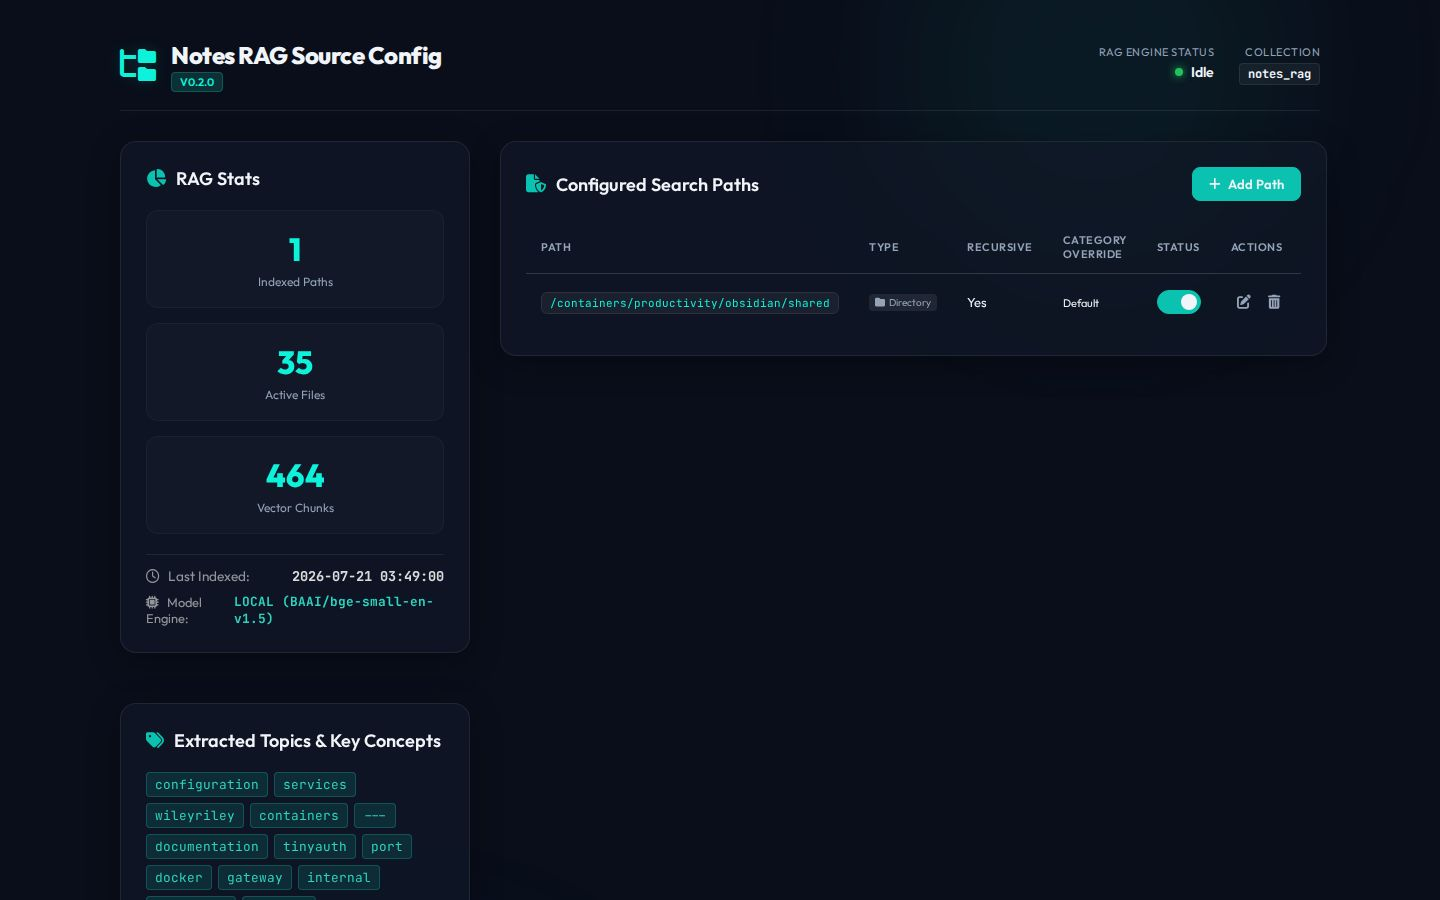
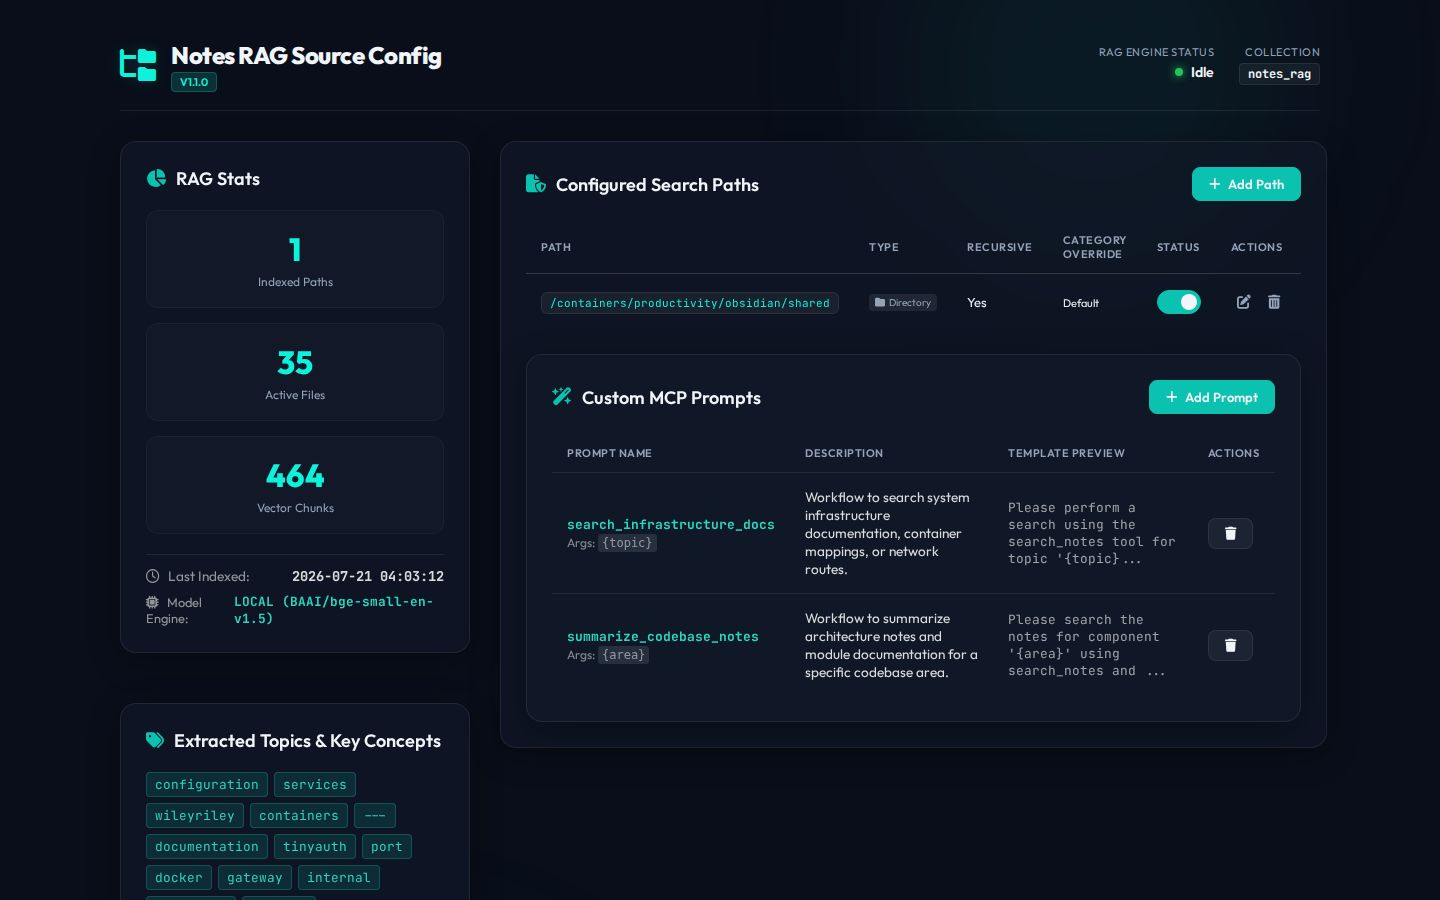
feat(prompts): add dynamic custom MCP prompt storage in SQLite with REST API and admin UI

diff --git a/www/app.js b/www/app.js
@@ -1,11 +1,14 @@
 document.addEventListener('DOMContentLoaded', () => {
     loadStats();
     loadPaths();
+    loadPrompts();
     
     // Poll stats and paths every 10s
     setInterval(loadStats, 10000);
     setInterval(loadPaths, 10000);
+    setInterval(loadPrompts, 10000);
 });
+
 
 // Cache global configs
 window.allPaths = [];
@@ -373,3 +376,108 @@ function escapeHtml(str) {
               .replace(/"/g, "&quot;")
               .replace(/'/g, "&#039;");
 }
+
+// ----------------------------------------------------
+// CUSTOM PROMPTS UI LOGIC
+// ----------------------------------------------------
+
+async function loadPrompts() {
+    try {
+        const response = await fetch('/admin/api/prompts');
+        if (!response.ok) throw new Error('Failed to fetch prompts');
+        const prompts = await response.json();
+        renderPrompts(prompts);
+    } catch (error) {
+        console.error('Error loading prompts:', error);
+    }
+}
+
+function renderPrompts(prompts) {
+    const tbody = document.getElementById('prompts-list-body');
+    if (!tbody) return;
+    if (prompts.length === 0) {
+        tbody.innerHTML = `
+            <tr>
+                <td colspan="4" class="empty-state">No custom MCP prompts configured. Click "Add Prompt" to create one.</td>
+            </tr>
+        `;
+        return;
+    }
+    
+    tbody.innerHTML = prompts.map(p => {
+        const argsStr = p.arguments && p.arguments.length > 0 
+            ? p.arguments.map(a => `<code style="font-size:0.75rem; background:rgba(255,255,255,0.1); padding:2px 4px; border-radius:3px;">{${escapeHtml(a.name)}}</code>`).join(' ') 
+            : '<span style="color:rgba(255,255,255,0.3)">None</span>';
+            
+        const previewText = p.template.length > 70 ? p.template.substring(0, 70) + '...' : p.template;
+
+        return `
+            <tr>
+                <td>
+                    <div style="font-weight:600; font-family:'JetBrains Mono', monospace; color:#2dd4bf;">${escapeHtml(p.name)}</div>
+                    <div style="font-size:0.75rem; margin-top:2px; color:rgba(255,255,255,0.5);">Args: ${argsStr}</div>
+                </td>
+                <td style="font-size:0.85rem; color:rgba(255,255,255,0.85);">${escapeHtml(p.description)}</td>
+                <td style="font-size:0.8rem; font-family:'JetBrains Mono', monospace; color:rgba(255,255,255,0.6);">${escapeHtml(previewText)}</td>
+                <td>
+                    <button class="btn btn-danger btn-sm" onclick="deletePrompt(${p.id})">
+                        <i class="fa-solid fa-trash"></i>
+                    </button>
+                </td>
+            </tr>
+        `;
+    }).join('');
+}
+
+function openAddPromptModal() {
+    document.getElementById('prompt-name').value = '';
+    document.getElementById('prompt-desc').value = '';
+    document.getElementById('prompt-template').value = '';
+    document.getElementById('prompt-modal').style.display = 'flex';
+}
+
+function closePromptModal() {
+    document.getElementById('prompt-modal').style.display = 'none';
+}
+
+async function savePrompt(event) {
+    event.preventDefault();
+    const name = document.getElementById('prompt-name').value.trim();
+    const description = document.getElementById('prompt-desc').value.trim();
+    const template = document.getElementById('prompt-template').value.trim();
+
+    // Extract placeholders like {topic} from template to auto-populate arguments
+    const matches = template.match(/\{([a-zA-Z0-9_\-]+)\}/g) || [];
+    const args = Array.from(new Set(matches.map(m => m.slice(1, -1)))).map(argName => ({
+        name: argName,
+        description: `Argument '${argName}' for prompt ${name}`,
+        required: true
+    }));
+
+    try {
+        const response = await fetch('/admin/api/prompts', {
+            method: 'POST',
+            headers: { 'Content-Type': 'application/json' },
+            body: JSON.stringify({ name, description, arguments: args, template })
+        });
+        const res = await response.json();
+        if (!response.ok) throw new Error(res.error || 'Failed to save prompt');
+
+        closePromptModal();
+        loadPrompts();
+    } catch (err) {
+        alert('Error saving prompt: ' + err.message);
+    }
+}
+
+async function deletePrompt(id) {
+    if (!confirm('Are you sure you want to delete this prompt?')) return;
+    try {
+        const response = await fetch(`/admin/api/prompts/${id}`, { method: 'DELETE' });
+        if (!response.ok) throw new Error('Failed to delete prompt');
+        loadPrompts();
+    } catch (err) {
+        alert('Error deleting prompt: ' + err.message);
+    }
+}
+

diff --git a/www/index.html b/www/index.html
@@ -114,6 +114,31 @@
                             </tbody>
                         </table>
                     </div>
+                <div class="glass-card prompts-card" style="margin-top: 24px;">
+                    <div class="card-header-btn">
+                        <h2><i class="fa-solid fa-wand-magic-sparkles"></i> Custom MCP Prompts</h2>
+                        <button class="btn btn-primary" onclick="openAddPromptModal()">
+                            <i class="fa-solid fa-plus"></i> Add Prompt
+                        </button>
+                    </div>
+                    
+                    <div class="table-container">
+                        <table>
+                            <thead>
+                                <tr>
+                                    <th>Prompt Name</th>
+                                    <th>Description</th>
+                                    <th>Template Preview</th>
+                                    <th>Actions</th>
+                                </tr>
+                            </thead>
+                            <tbody id="prompts-list-body">
+                                <tr>
+                                    <td colspan="4" class="empty-state">Loading custom MCP prompts...</td>
+                                </tr>
+                            </tbody>
+                        </table>
+                    </div>
                 </div>
             </section>
         </main>
@@ -122,6 +147,39 @@
             <p>WileyRiley Infrastructure &bull; Protected by TinyAuth Forward Auth &bull; 2026</p>
         </footer>
     </div>
+
+    <!-- Add Custom Prompt Modal -->
+    <div class="modal-backdrop" id="prompt-modal" style="display: none;">
+        <div class="glass-card modal-card" style="max-width: 600px;">
+            <div class="modal-header">
+                <h2><i class="fa-solid fa-wand-magic-sparkles"></i> Add Custom MCP Prompt</h2>
+                <button class="btn-close" onclick="closePromptModal()">&times;</button>
+            </div>
+            
+            <form id="prompt-form" onsubmit="savePrompt(event)">
+                <div class="form-group">
+                    <label for="prompt-name">Prompt Name</label>
+                    <input type="text" id="prompt-name" required placeholder="e.g. search_security_audits">
+                </div>
+
+                <div class="form-group">
+                    <label for="prompt-desc">Description</label>
+                    <input type="text" id="prompt-desc" required placeholder="Workflow to search security audit notes and compliance docs.">
+                </div>
+
+                <div class="form-group">
+                    <label for="prompt-template">Prompt Message Template (Use {variable_name} placeholders)</label>
+                    <textarea id="prompt-template" rows="4" style="width: 100%; background: rgba(0,0,0,0.3); border: 1px solid rgba(255,255,255,0.1); color: #fff; padding: 10px; border-radius: 6px; font-family: 'JetBrains Mono', monospace;" required placeholder="Please search the notes for security topic '{topic}' using search_notes and summarize compliance rules..."></textarea>
+                </div>
+
+                <div class="form-actions" style="margin-top: 20px; display: flex; justify-content: flex-end; gap: 10px;">
+                    <button type="button" class="btn btn-secondary" onclick="closePromptModal()">Cancel</button>
+                    <button type="submit" class="btn btn-primary">Save Prompt</button>
+                </div>
+            </form>
+        </div>
+    </div>
+
 
     <!-- Add/Edit Path Modal -->
     <div class="modal-backdrop" id="path-modal" style="display: none;">

diff --git a/server.py b/server.py
@@ -110,7 +110,44 @@ def init_cache_db():
                 mtime REAL
             )
         """)
+        conn.execute("""
+            CREATE TABLE IF NOT EXISTS custom_prompts (
+                id INTEGER PRIMARY KEY AUTOINCREMENT,
+                name TEXT UNIQUE NOT NULL,
+                description TEXT NOT NULL,
+                arguments_json TEXT,
+                template TEXT NOT NULL,
+                added_at TIMESTAMP DEFAULT CURRENT_TIMESTAMP
+            )
+        """)
         conn.commit()
+
+        # Seed default prompts if empty
+        try:
+            prompt_count = conn.execute("SELECT count(*) FROM custom_prompts").fetchone()[0]
+            if prompt_count == 0:
+                default_prompts = [
+                    (
+                        "search_infrastructure_docs",
+                        "Workflow to search system infrastructure documentation, container mappings, or network routes.",
+                        json.dumps([{"name": "topic", "description": "The specific infrastructure topic to search for (e.g. ports, caddy, authelia)", "required": True}]),
+                        "Please perform a search using the search_notes tool for topic '{topic}' and summarize the matching container mappings, port numbers, reverse proxy routes, or setup instructions."
+                    ),
+                    (
+                        "summarize_codebase_notes",
+                        "Workflow to summarize architecture notes and module documentation for a specific codebase area.",
+                        json.dumps([{"name": "area", "description": "Codebase feature area or component to summarize", "required": True}]),
+                        "Please search the notes for component '{area}' using search_notes and provide an architectural summary including key files, design patterns, and dependencies."
+                    )
+                ]
+                conn.executemany(
+                    "INSERT OR IGNORE INTO custom_prompts (name, description, arguments_json, template) VALUES (?, ?, ?, ?)",
+                    default_prompts
+                )
+                conn.commit()
+        except Exception as pe:
+            logger.error(f"Failed to seed default prompts: {pe}")
+
 
         # Seed default vault path if the configuration database has /notes or is empty
         try:
@@ -738,30 +775,59 @@ async def read_resource(uri: str) -> str:
 
 @mcp_server.list_prompts()
 async def list_prompts() -> List[Prompt]:
-    return [
-        Prompt(
-            name="search_infrastructure_docs",
-            description="Workflow to search system infrastructure documentation, container mappings, or network routes.",
-            arguments=[
-                PromptArgument(name="topic", description="The specific infrastructure topic to search for (e.g. ports, caddy, authelia)", required=True)
-            ]
-        )
-    ]
+    prompts = []
+    try:
+        with get_db_connection() as conn:
+            rows = conn.execute("SELECT name, description, arguments_json FROM custom_prompts ORDER BY name ASC").fetchall()
+        for r in rows:
+            args_list = []
+            if r["arguments_json"]:
+                try:
+                    parsed_args = json.loads(r["arguments_json"])
+                    for a in parsed_args:
+                        args_list.append(PromptArgument(
+                            name=a.get("name", ""),
+                            description=a.get("description", ""),
+                            required=a.get("required", False)
+                        ))
+                except Exception:
+                    pass
+            prompts.append(Prompt(
+                name=r["name"],
+                description=r["description"],
+                arguments=args_list
+            ))
+    except Exception as e:
+        logger.error(f"Error listing prompts from DB: {e}")
+    return prompts
 
 @mcp_server.get_prompt()
 async def get_prompt(name: str, arguments: dict = None) -> List[PromptMessage]:
-    if name == "search_infrastructure_docs":
-        topic = (arguments or {}).get("topic", "infrastructure")
+    arguments = arguments or {}
+    try:
+        with get_db_connection() as conn:
+            row = conn.execute("SELECT name, template, arguments_json FROM custom_prompts WHERE name = ?", (name,)).fetchone()
+        if not row:
+            raise ValueError(f"Unknown prompt name: {name}")
+        
+        template = row["template"]
+        formatted_text = template
+        for k, v in arguments.items():
+            formatted_text = formatted_text.replace(f"{{{k}}}", str(v))
+
         return [
             PromptMessage(
                 role="user",
                 content=TextContent(
                     type="text",
-                    text=f"Please perform a search using the search_notes tool for topic '{topic}' and summarize the matching container mappings, port numbers, reverse proxy routes, or setup instructions."
+                    text=formatted_text
                 )
             )
         ]
-    raise ValueError(f"Unknown prompt name: {name}")
+    except Exception as e:
+        logger.error(f"Error getting prompt '{name}': {e}")
+        raise ValueError(f"Failed to get prompt '{name}': {str(e)}")
+
 
 @mcp_server.call_tool()
 async def call_tool(name: str, arguments: dict) -> List[TextContent]:
@@ -996,6 +1062,66 @@ async def delete_path(path_id: int):
         return {"status": "success", "message": f"Deleted path: {path}"}
     except Exception as e:
         return JSONResponse(status_code=500, content={"error": str(e)})
+
+# ----------------------------------------------------
+# CUSTOM MCP PROMPTS MANAGEMENT API
+# ----------------------------------------------------
+
[email redacted]("/admin/api/prompts")
+async def get_prompts():
+    try:
+        with get_db_connection() as conn:
+            rows = conn.execute("SELECT id, name, description, arguments_json, template, added_at FROM custom_prompts ORDER BY name ASC").fetchall()
+            prompts = []
+            for r in rows:
+                d = dict(r)
+                try:
+                    d["arguments"] = json.loads(r["arguments_json"]) if r["arguments_json"] else []
+                except Exception:
+                    d["arguments"] = []
+                prompts.append(d)
+        return prompts
+    except Exception as e:
+        return JSONResponse(status_code=500, content={"error": str(e)})
+
[email redacted]("/admin/api/prompts")
+async def add_prompt(request: Request):
+    try:
+        data = await request.json()
+        name = data.get("name", "").strip()
+        description = data.get("description", "").strip()
+        arguments = data.get("arguments", [])
+        template = data.get("template", "").strip()
+
+        if not name or not description or not template:
+            return JSONResponse(status_code=400, content={"error": "Name, description, and template are required."})
+
+        name = re.sub(r'[^a-zA-Z0-9_\-]', '_', name).lower()
+        arguments_json = json.dumps(arguments)
+
+        with get_db_connection() as conn:
+            conn.execute(
+                "INSERT INTO custom_prompts (name, description, arguments_json, template) VALUES (?, ?, ?, ?)",
+                (name, description, arguments_json, template)
+            )
+            conn.commit()
+
+        return {"status": "success", "message": f"Added custom prompt '{name}'"}
+    except sqlite3.IntegrityError:
+        return JSONResponse(status_code=400, content={"error": f"Prompt '{name}' already exists."})
+    except Exception as e:
+        return JSONResponse(status_code=500, content={"error": str(e)})
+
[email redacted]("/admin/api/prompts/{prompt_id}")
+async def delete_prompt(prompt_id: int):
+    try:
+        with get_db_connection() as conn:
+            conn.execute("DELETE FROM custom_prompts WHERE id = ?", (prompt_id,))
+            conn.commit()
+        return {"status": "success", "message": f"Deleted prompt ID {prompt_id}"}
+    except Exception as e:
+        return JSONResponse(status_code=500, content={"error": str(e)})
+
 
 @app.post("/admin/api/reindex")
 async def trigger_reindex():